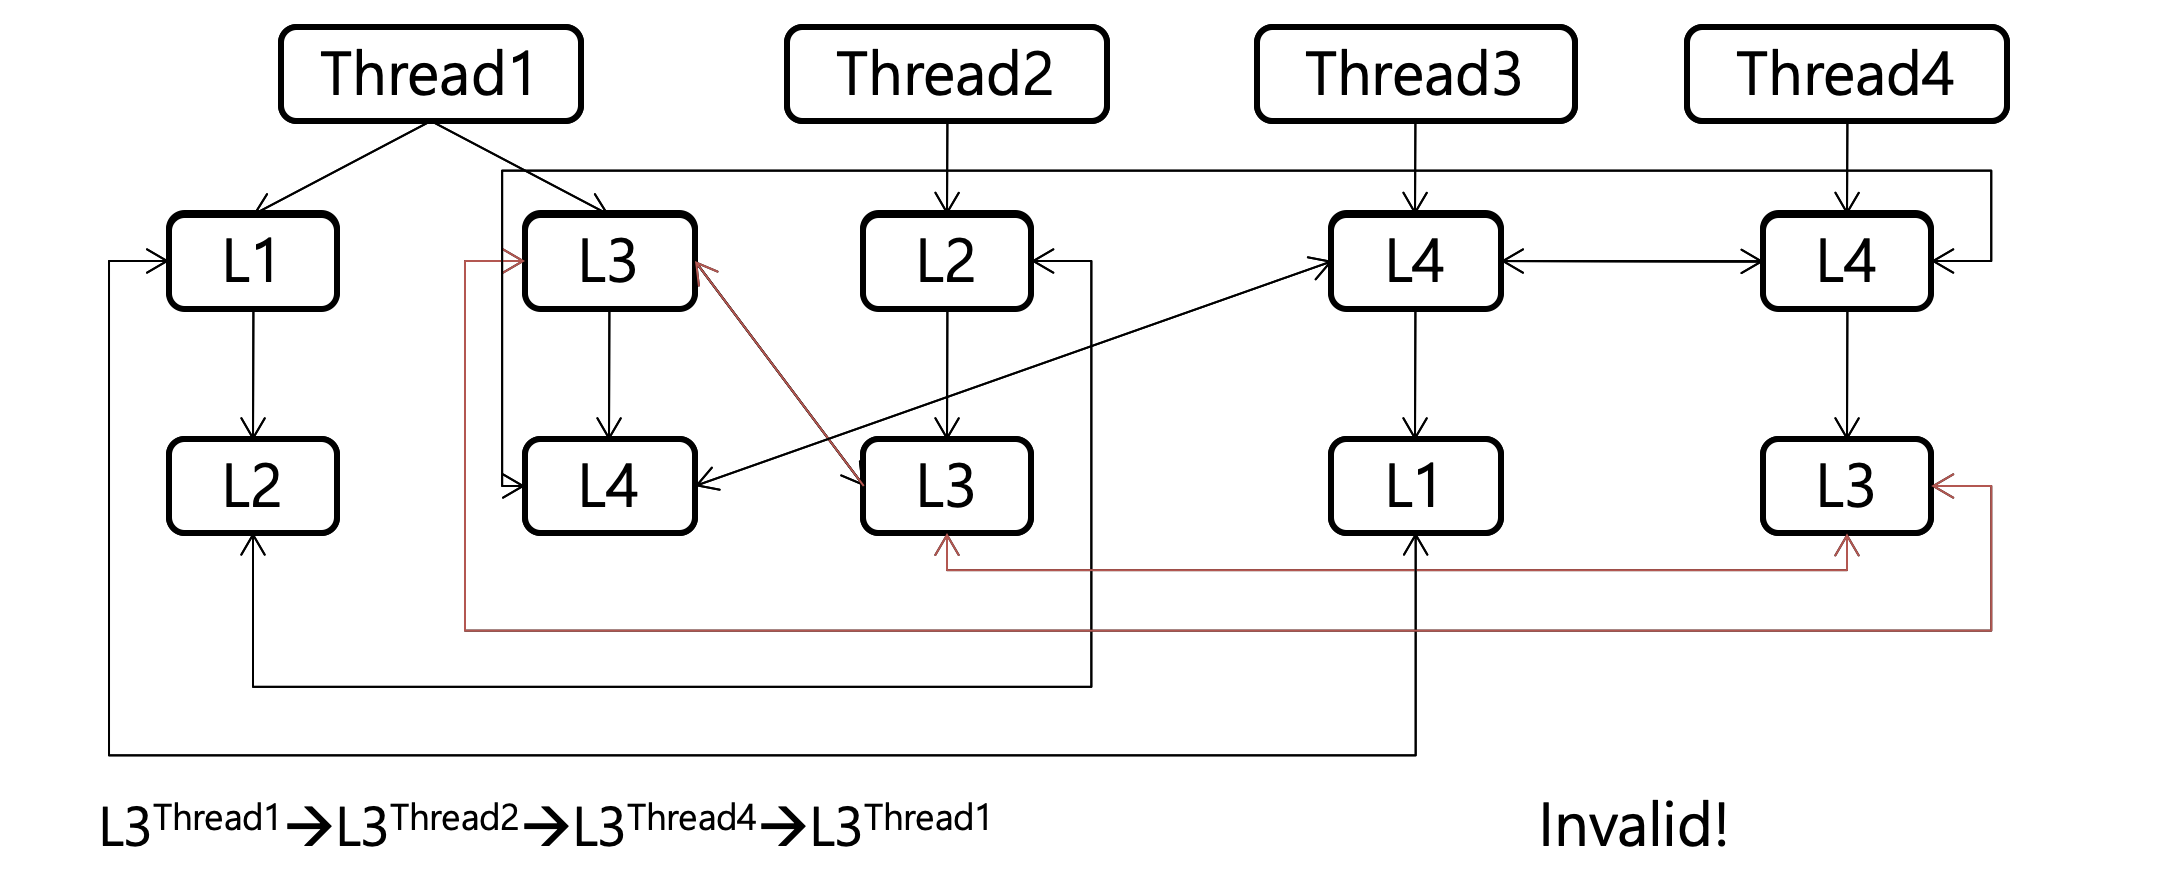
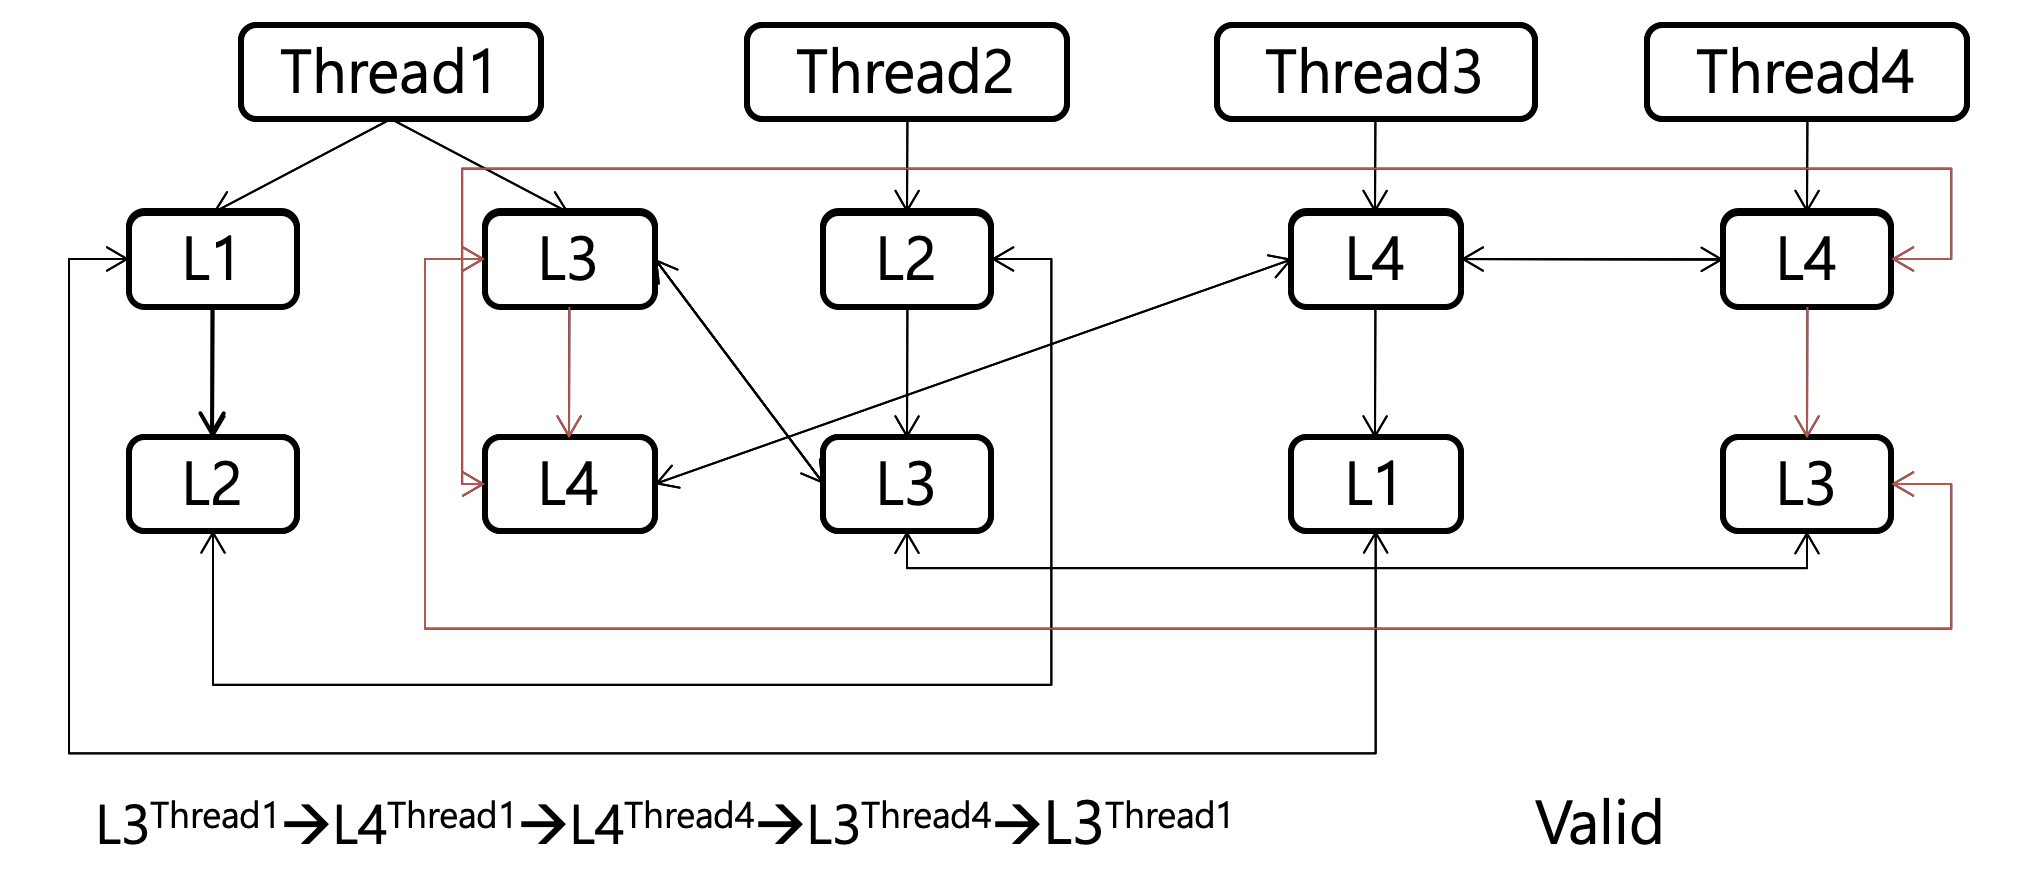
deadlock post 수정

diff --git a/_posts/2019-05-28-deadlock-3.md b/_posts/2019-05-28-deadlock-3.md
@@ -67,7 +67,7 @@ lock이 언제 acquire되고 release되는지 관찰할 수 있게 해주는 Gra
 **하나의 Lock으로 Cycle이 구성된 경우 - INVALID**
 ![사진](https://raw.githubusercontent.com/zoomKoding/zoomKoding.github.io/source/assets/_posts/deadlock-8.png)
 
-**두개 이상의 같은 thread에서 연속된 Edge가 2개 이상인 경우 - INVALID**
+**같은 thread에서 나온 연속된 Edge가 2개 이상인 경우 - INVALID**
 ![사진](https://raw.githubusercontent.com/zoomKoding/zoomKoding.github.io/source/assets/_posts/deadlock-9.png)
 
 **VALID한 경우**
